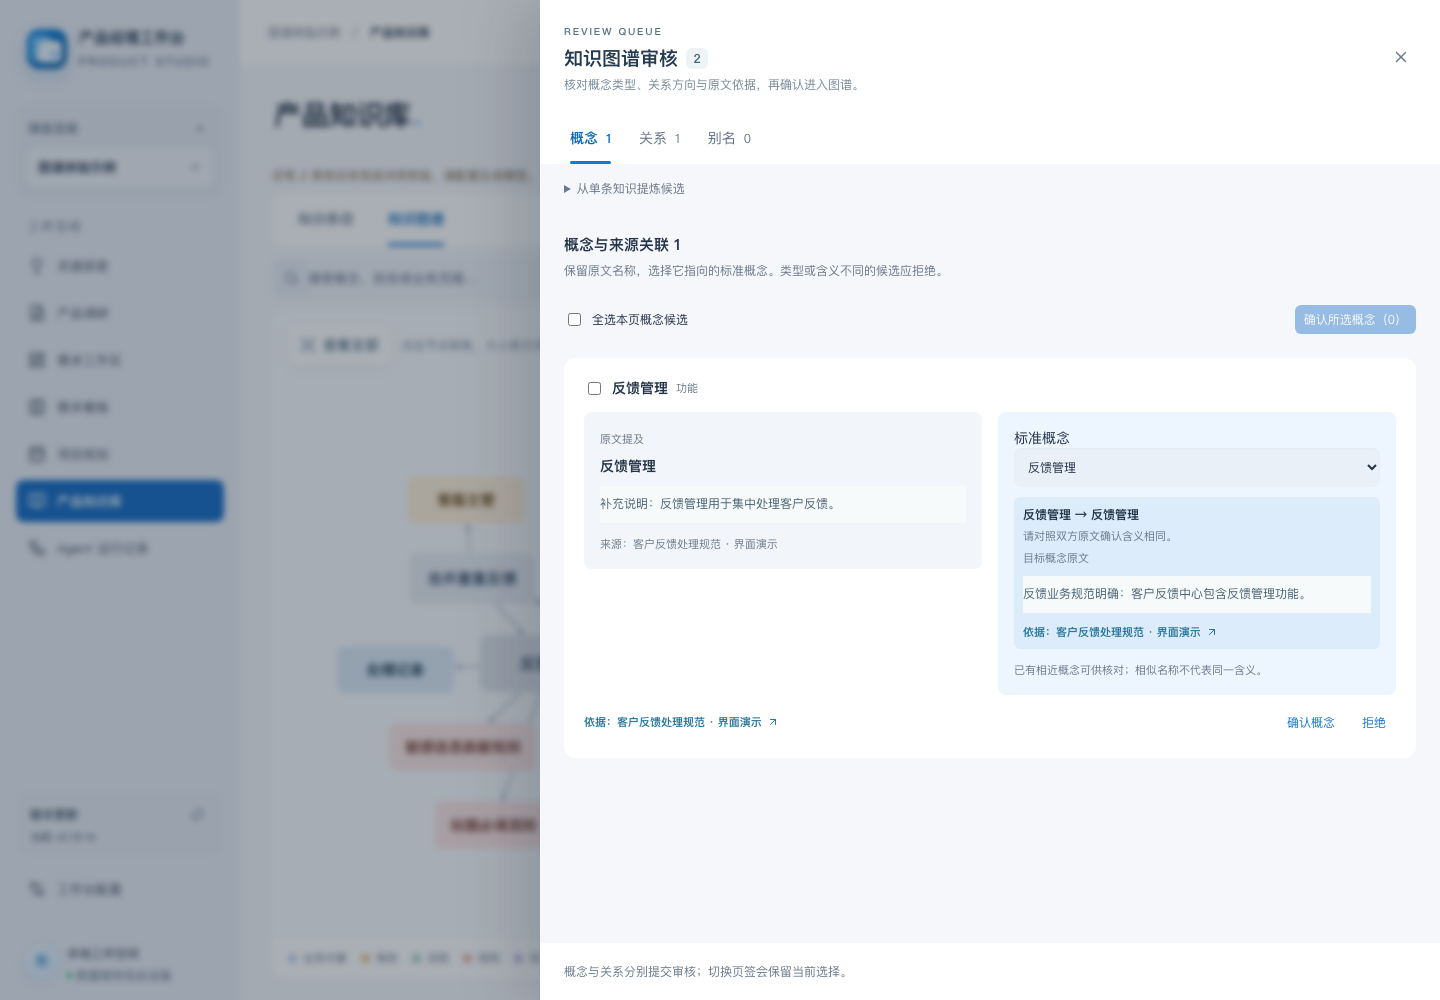
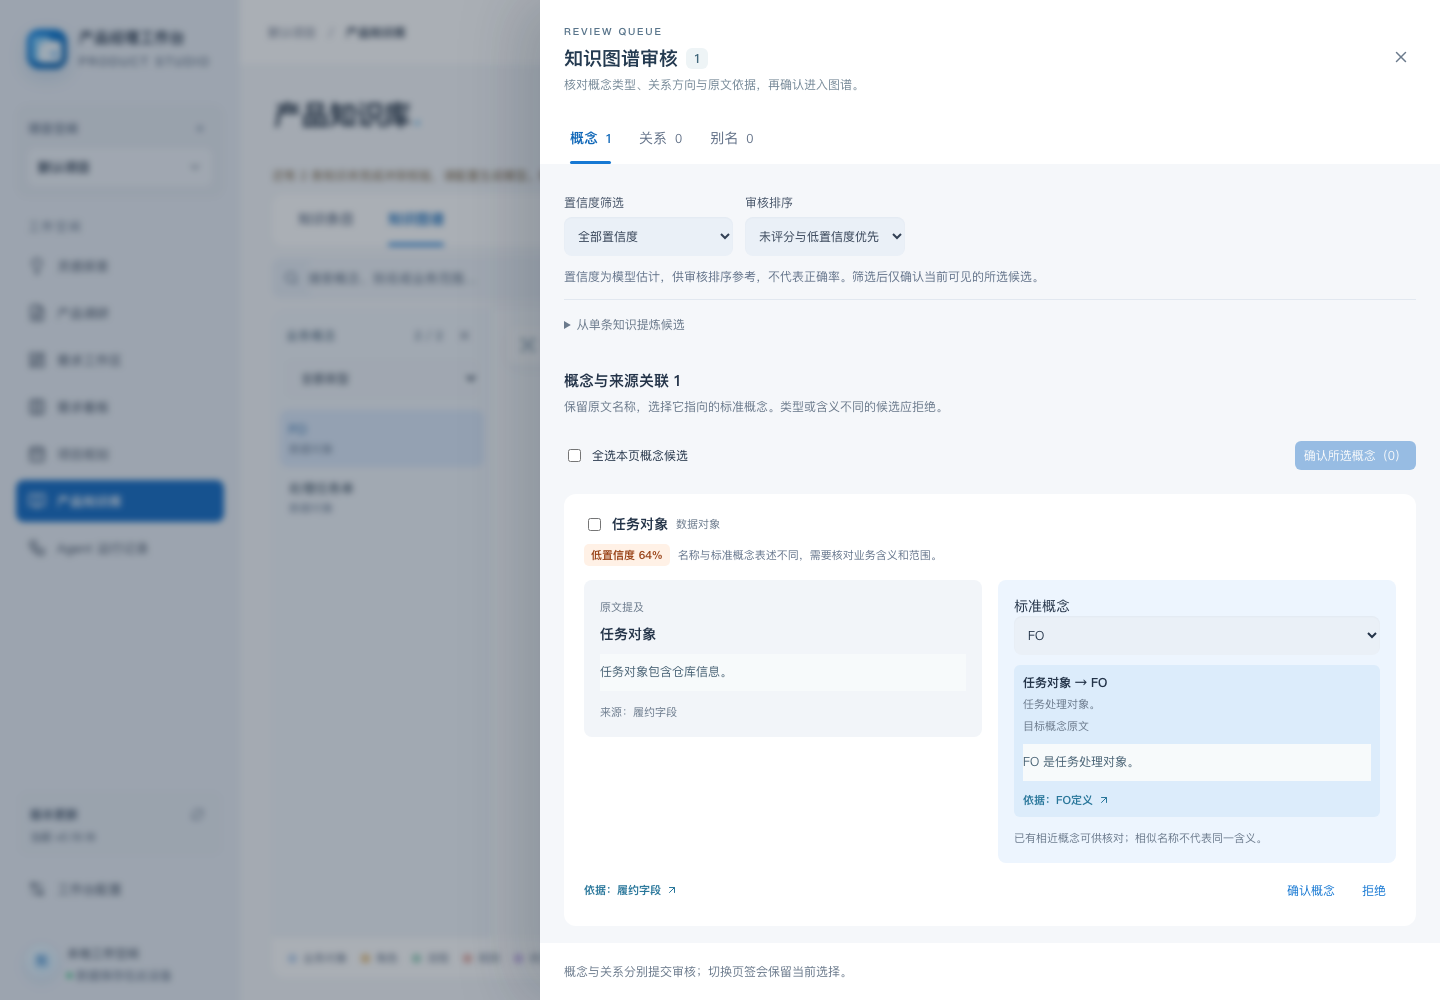
docs: describe graph extraction and confidence review

diff --git a/INSTALL.md b/INSTALL.md
@@ -2,6 +2,14 @@
 
 此 ZIP 是服务端部署包，适用于 Node.js 22.13+。浏览器访问工作台，无需安装客户端。ZIP 不包含 Node.js、用户数据或访问口令。
 
+## 0.19.18 知识图谱提炼与置信度审核
+
+图谱提炼先依据原文识别概念和关系，再独立核对标准概念身份，结合别名、定义和实际归属对齐同义名称；分类、属性、事件和关系陈述不再一律建立为独立概念。关系校验覆盖图示标签与方向、表格、章节和连续操作步骤，保留适用条件及连续原文；截断 JSON 重试保留原始输入。
+
+概念与关系候选显示模型估计置信度和判断说明，支持分档筛选，以及未评分与低置信度优先。置信度不代表统计正确率；批量确认只作用于当前可见的所选候选。同名身份仍有歧义时，需明确选择已有概念或调整标准名称/归属。聚焦使用固定全景坐标作为基准，重复点击与无效尺寸变化不会持续重排外围节点。
+
+数据库升级至 schema v43，保存候选置信度、说明及关系依据类型。原有知识与已审核决定保留，旧候选没有分数时显示未评分；旧提炼记录按新策略提示重新提炼，不自动重跑模型。需要重新提炼的来源可在图谱中明确选择后执行，新结果仍需审核。升级前停止服务并备份完整数据目录及 .env；回退须恢复旧程序及升级前完整数据。
+
 ## 0.19.17 通用示例与发布资料
 
 提示词与自动化测试使用通用、虚构示例，发布资料只描述产品能力和工程验证。既有知识、文档、图谱与审核流程保持，沿用 schema v42。升级前按常规步骤备份完整数据目录及 .env。
